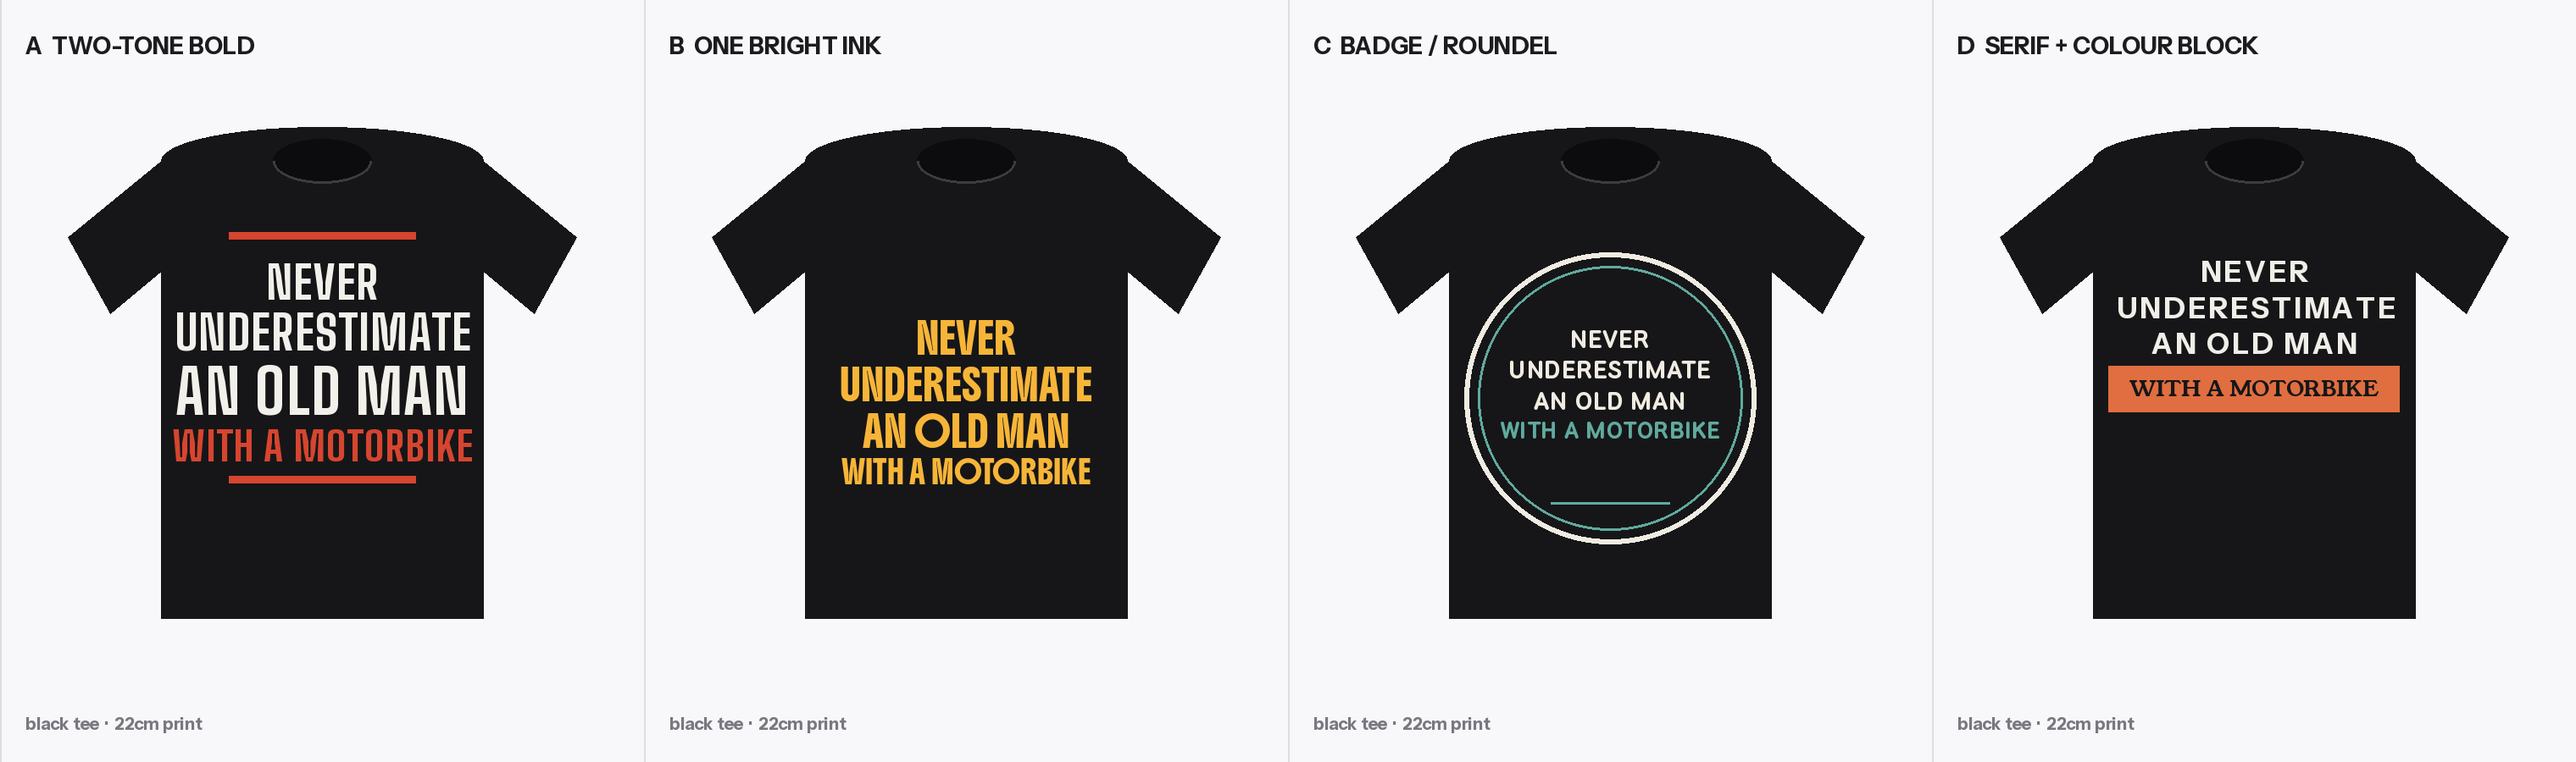
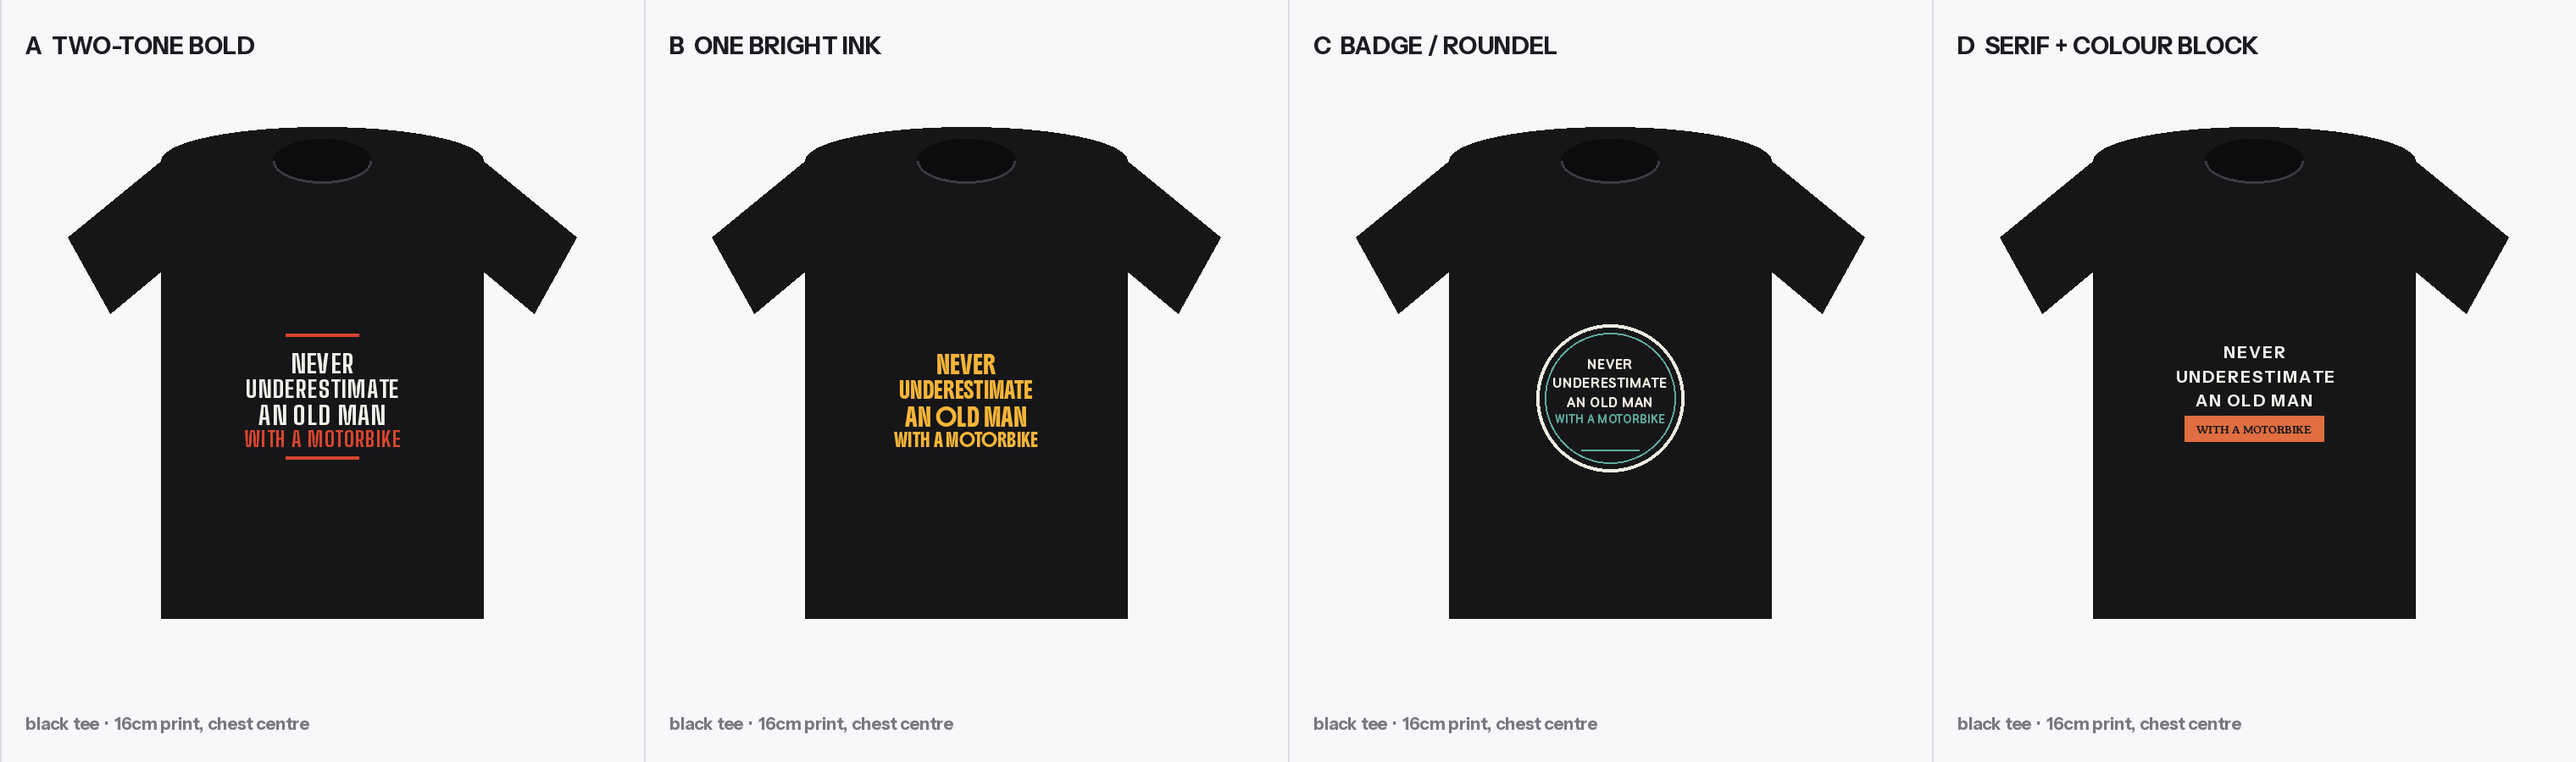
tshirt: smaller, chest-centred print
The prints ran nearly the full chest width and sat up under the collar.
Every direction now composes inside one print box - 46% of the body width,
centred on the chest rather than the yoke - so the type scales to the
print instead of the print scaling to the type.

Worth recording: the coverage figure in cv_features measures ink density
INSIDE the cropped print area, not print size relative to the garment, so
it cannot support a print-size claim. The earlier 22cm spec was my own
assumption, not a measurement. Replaced with the seller's own read of
their designs.

Claude-Session: https://claude.ai/code/session_01TvvbLgbPQ1Bk5N7TUiTbcc

diff --git a/tshirt/styles.py b/tshirt/styles.py
@@ -21,6 +21,13 @@ FONTS = {
 TEE = (22, 22, 24)          # black garment
 W, H = 760, 900             # one panel
 
+# Print box. The source designs run nearly the full chest width; the brief
+# is smaller and centred, so the box is 46% of the body width and sits on
+# the vertical centre of the chest rather than up under the collar.
+BODY_W  = 380
+PRINT_W = int(BODY_W * 0.46)        # ~175px  ~=  16cm on an adult chest
+PRINT_CY = 470                      # centre of the chest, not the yoke
+
 
 def font(k, s): return ImageFont.truetype(FONTS[k], s)
 
@@ -64,59 +71,60 @@ def centre(draw, y, text, f, fill, track=0, lead=1.08):
 def a_two_tone(d, lines, pal):
     """A - TWO-TONE BOLD. Off-white condensed, one signal colour, a rule."""
     ink, sig = pal
-    y = 300
-    d.rectangle([W//2-110, y-26, W//2+110, y-18], fill=sig)
-    for i, ln in enumerate(lines):
-        f = fit(d, ln.upper(), "condensed", 340, 76 if i else 54)
-        col = sig if i == len(lines)-1 and len(lines) > 2 else ink
-        y = centre(d, y, ln.upper(), f, col, track=1)
-    d.rectangle([W//2-110, y+14, W//2+110, y+22], fill=sig)
+    fs = [fit(d, l.upper(), "condensed", PRINT_W, 30) for l in lines]
+    h = sum(max(d.textbbox((0, 0), l.upper(), font=f)[3], f.size) * 1.06
+            for l, f in zip(lines, fs))
+    y = PRINT_CY - h / 2
+    d.rectangle([W//2-PRINT_W//4, y-16, W//2+PRINT_W//4, y-13], fill=sig)
+    for i, (ln, f) in enumerate(zip(lines, fs)):
+        col = sig if i == len(lines)-1 else ink
+        y = centre(d, y, ln.upper(), f, col, track=1, lead=1.06)
+    d.rectangle([W//2-PRINT_W//4, y+10, W//2+PRINT_W//4, y+13], fill=sig)
 
 
 def b_single_ink(d, lines, pal):
     """B - ONE BRIGHT INK. A single saturated colour, very graphic."""
     sig = pal[1]
-    sizes = [34, 34, 34, 34]
-    sizes[-1] = 46                      # the payload line is the loud one
-    total = 0
-    fs = []
+    fs, total = [], 0
     for i, ln in enumerate(lines):
-        f = fit(d, ln.upper(), "display", 310, sizes[min(i, 3)])
+        f = fit(d, ln.upper(), "display", PRINT_W, 20 if i < len(lines)-1 else 25)
         bb = d.textbbox((0, 0), ln.upper(), font=f)
-        fs.append((f, bb[3] - bb[1])); total += (bb[3] - bb[1]) * 1.34
-    y = 470 - total / 2
-    for (f, _), ln in zip(fs, lines):
+        fs.append(f); total += (bb[3] - bb[1]) * 1.34
+    y = PRINT_CY - total / 2
+    for f, ln in zip(fs, lines):
         y = centre(d, y, ln.upper(), f, sig, lead=1.34)
 
 
 def c_badge(d, lines, pal):
     """C - BADGE / ROUNDEL. Retro athletic lockup inside a ring."""
     ink, sig = pal
-    cx, cy, r = W//2, 470, 172
-    d.ellipse([cx-r, cy-r, cx+r, cy+r], outline=ink, width=6)
-    d.ellipse([cx-r+16, cy-r+16, cx+r-16, cy+r-16], outline=sig, width=3)
+    cx, cy, r = W//2, PRINT_CY, PRINT_W//2
+    d.ellipse([cx-r, cy-r, cx+r, cy+r], outline=ink, width=4)
+    d.ellipse([cx-r+10, cy-r+10, cx+r-10, cy+r-10], outline=sig, width=2)
     n = len(lines)
-    y = cy - (n * 36) / 2 - 18
+    y = cy - (n * 21) / 2 - 10
     for i, ln in enumerate(lines):
-        f = fit(d, ln.upper(), "slab", 2*r-84, 40 if i == len(lines)-1 else 30)
+        f = fit(d, ln.upper(), "slab", 2*r-34, 22 if i == len(lines)-1 else 17)
         col = sig if i == len(lines)-1 else ink
         y = centre(d, y, ln.upper(), f, col) + 4
-    d.line([cx-70, cy+r-48, cx+70, cy+r-48], fill=sig, width=3)
+    d.line([cx-34, cy+r-26, cx+34, cy+r-26], fill=sig, width=2)
 
 
 def d_serif_block(d, lines, pal):
     """D - SERIF + COLOUR BLOCK. Display serif over a solid panel."""
     ink, sig = pal
-    y = 300
-    for ln in lines[:-1]:
-        f = fit(d, ln.upper(), "grotesk", 300, 34)
-        y = centre(d, y, ln.upper(), f, ink, track=3) + 6
-    y += 18
+    fs = [fit(d, l.upper(), "grotesk", PRINT_W, 19) for l in lines[:-1]]
+    tf = fit(d, lines[-1].upper(), "serif", PRINT_W - 20, 30)
+    h = sum(f.size * 1.5 for f in fs) + tf.size + 34
+    y = PRINT_CY - h/2
+    for ln, f in zip(lines[:-1], fs):
+        y = centre(d, y, ln.upper(), f, ink, track=2, lead=1.5)
+    y += 10
     tailw = lines[-1].upper()
-    f = fit(d, tailw, "serif", 310, 62)
+    f = tf
     bb = d.textbbox((0, 0), tailw, font=f)
     w, h = bb[2]-bb[0], bb[3]-bb[1]
-    d.rectangle([(W-w)/2-24, y-14, (W+w)/2+24, y+h+20], fill=sig)
+    d.rectangle([(W-w)/2-14, y-8, (W+w)/2+14, y+h+12], fill=sig)
     centre(d, y - bb[1] + 2, tailw, f, TEE)
 
 
@@ -146,7 +154,7 @@ def sheet(sample_idx, path):
         fn(d, lines, pal)
         lab = font("grotesk", 28)
         d.text((30, 36), name, font=lab, fill=(28, 28, 32))
-        d.text((30, H-58), "black tee  ·  22cm print", font=font("grotesk", 20),
+        d.text((30, H-58), "black tee  ·  16cm print, chest centre", font=font("grotesk", 20),
                fill=(120, 120, 128))
         img.paste(panel, (i*W, 0))
         d0.line([(i*W, 0), (i*W, H)], fill=(220, 220, 226), width=2)
